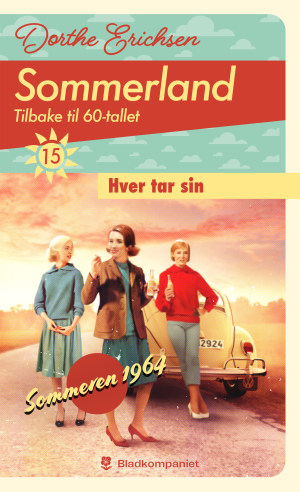
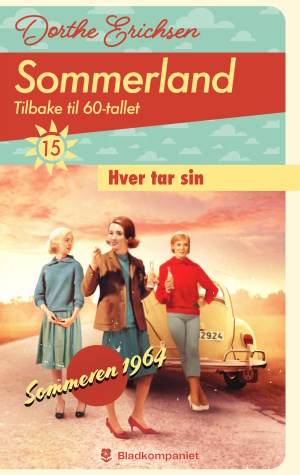
Fiks utkast 02.05

diff --git a/src/routes/program/(tilbake)/fredag/litteratur/+page.svelte b/src/routes/program/(tilbake)/fredag/litteratur/+page.svelte
@@ -12,29 +12,24 @@
         <ul>
             <li>
                 <figure>
-                    <div class="flex flex-children-grow">
+                    <div
+                        class="flex flex-children-grow"
+                        style="align-items:flex-end;"
+                    >
                         <div>
                             <img
                                 width="300"
-                                height="492"
+                                height="475"
                                 alt="Omslag til Erichsens 'Sommerland'"
                                 src="/Sommerland_Erichsen.jpg"
                             />
                         </div>
-                        <div>
+                        <div style="margin-left: 0.5rem;">
                             <img
-                                width="300"
-                                height="492"
-                                alt="Omslag til Erichsens 'Sommerland'"
-                                src="/Sommerland_Erichsen.jpg"
-                            />
-                        </div>
-                        <div>
-                            <img
-                                width="300"
-                                height="492"
-                                alt="Omslag til Erichsens 'Sommerland'"
-                                src="/Sommerland_Erichsen.jpg"
+                                width="580"
+                                height="900"
+                                alt="Omslag til Kjølners 'Sommer i Sandøsund"
+                                src="/Kjølner_Sommer i Sandoesund.webp"
                             />
                         </div>
                     </div>
@@ -54,6 +49,13 @@
         <h3>16:00</h3>
         <ul>
             <li>
+                <img
+                    src="/Kvinnelinjer.jpg"
+                    class="p50"
+                    alt="Omslaget til 'Kvinnelinjer'"
+                    width="670"
+                    height="945"
+                />
                 <p>
                     <a href="info/#Kvinnelinjer">Kvinnelinjer</a>. Kvinners
                     livsfortellinger. (Foreningen KULT v/ Norunn Askeland og
@@ -78,8 +80,9 @@
                         >Anne Sverdrup-Thygeson</a
                     >
                     og
-                    <a href="info/#Lars-Elling">Lars Elling</a> i samtale med Stein
-                    Erik Lunde om bøkene Insekter i Norge og Fyrstene av Finntjern
+                    <a href="info/#Lars-Elling">Lars Elling</a> i samtale med
+                    Stein Erik Lunde om bøkene <i>Insekter i Norge</i> og
+                    <i>Fyrstene av Finntjern</i>
                 </p>
             </li>
         </ul>

diff --git a/src/routes/program/(tilbake)/lørdag/litteratur/+page.svelte b/src/routes/program/(tilbake)/lørdag/litteratur/+page.svelte
@@ -20,6 +20,33 @@
         <h3>16:00</h3>
         <ul>
             <li>
+                <figure>
+                    <div class="flex">
+                        <div>
+                            <img
+                                width="554"
+                                height="774"
+                                alt="Elise Dahle"
+                                src="/Elise Dahle.jpg"
+                            />
+                        </div>
+                        <div>
+                            <img
+                                width="554"
+                                height="774"
+                                alt="Tobias Nørstebø-Vartdal"
+                                src="/Tobias Nørstebø-Vartdal.jpg"
+                            />
+                        </div>
+                    </div>
+                    <figcaption>
+                        <i>
+                            Elisa Dahle og Tobias Nørstebø-Vartdal leste opp
+                            tekstene sine under fjorårets bakgårdsfestival.
+                            Foto: Cedric Archer</i
+                        >
+                    </figcaption>
+                </figure>
                 <p>
                     <a href="info/#unge-stemmer">Unge stemmer</a> (Foreningen KULT
                     v/ Ingunn U-M Rasting og Camilla V.A.Hellern)

diff --git a/src/lib/app.css b/src/lib/app.css
@@ -80,6 +80,8 @@ figure {
 }
 
 figcaption {
+	margin-bottom: 0.5rem;
+	font-size: 0.9rem;
 	color: rgb(35, 31, 32);
 }
 
